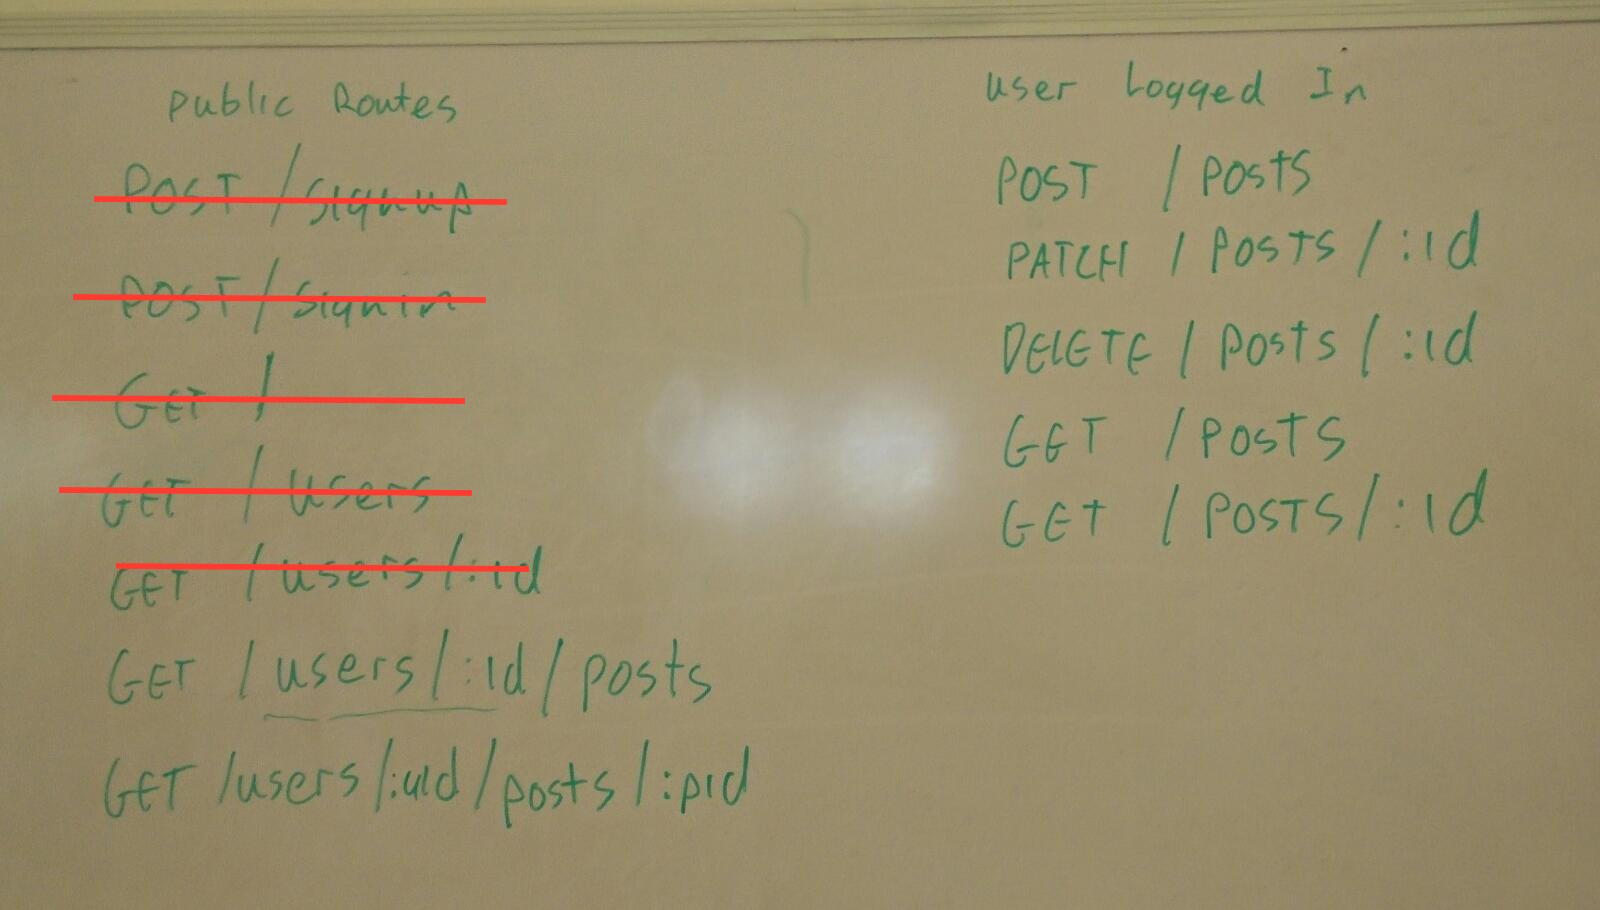
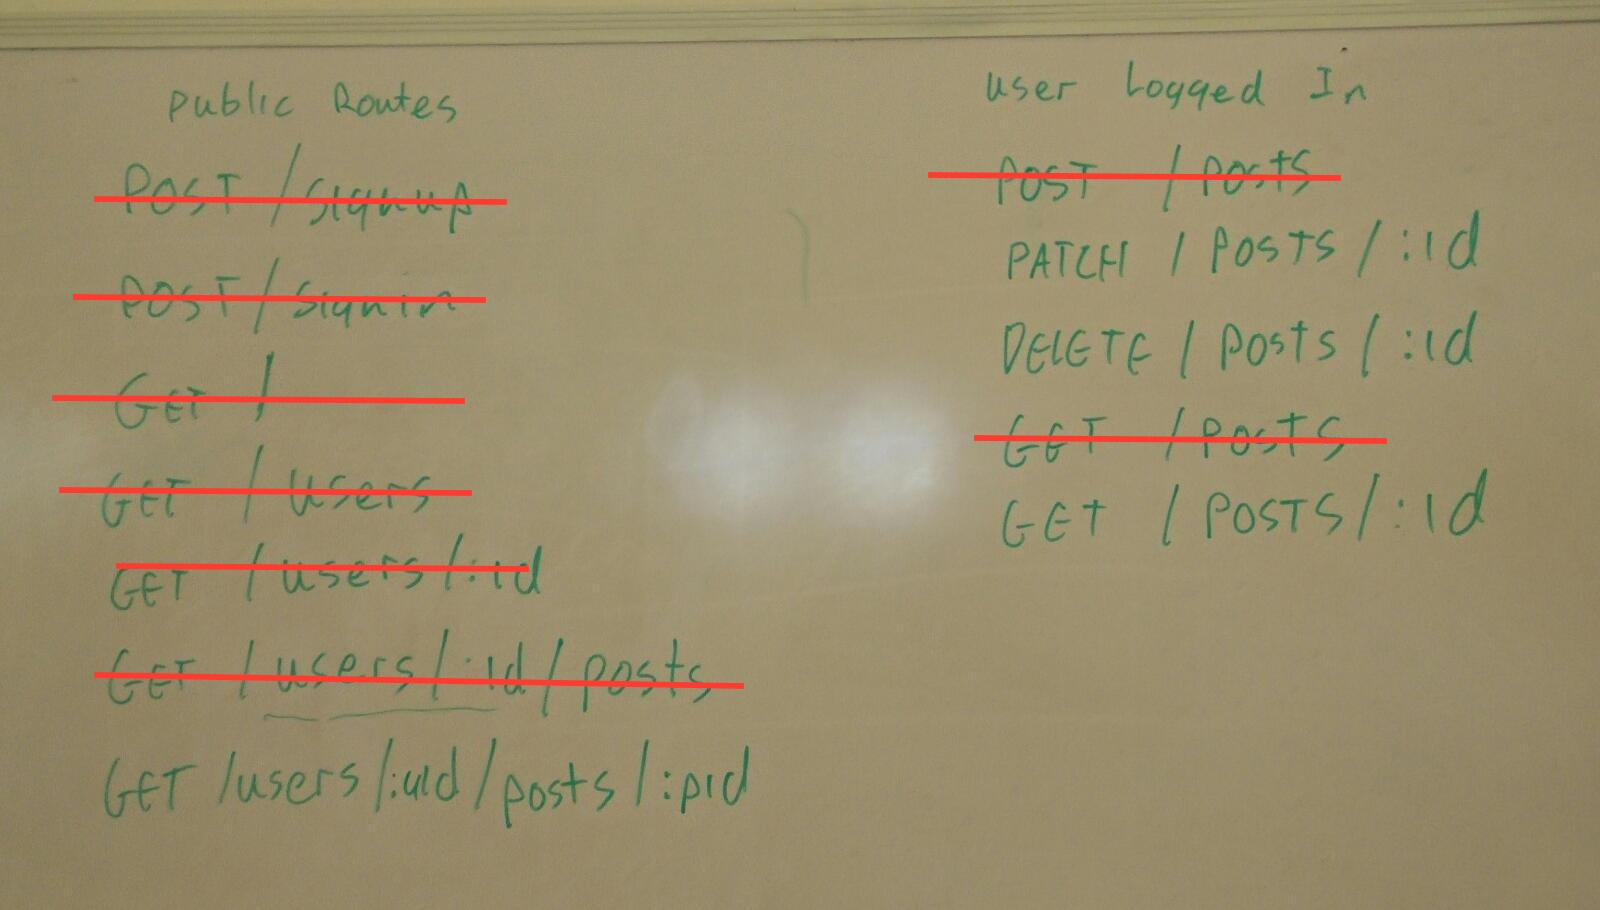
still cannot get users/id/posts/id

Changed region(s): [[0.0625, 0.7385, 0.4688, 0.7692], [0.5938, 0.4615, 0.875, 0.4923], [0.5625, 0.1846, 0.8438, 0.2154]]

diff --git a/app.js b/app.js
@@ -5,64 +5,52 @@ const User = require('./models/user')
 const Post = require('./models/post')
 const postController = require('./controllers/postController')
 const userController = require('./controllers/userController')
+const signInUpController = require('./controllers/signInUpController')
 
 const port = process.env.PORT || 3000
 const app = express()
 app.use(bodyParser.json())
 app.use(bodyParser.urlencoded({ extended: true }))
-
 app.use(function (req, res, next) {
   res.header('Access-Control-Allow-Origin', '*')
   res.header('Access-Control-Allow-Headers', 'Origin, X-Requested-With, Content-Type, Accept, User-Email, Auth-Token')
   next()
 })
-
 mongoose.connect('mongodb://default:defaultpassword@ds011963.mlab.com:11963/blog-app-david')
 
-app.post('/signup', (req, res) => {
-  const user = new User(req.body)
+// ROUTING END POINTS TO THE APPROPRIATE FUNCTIONS
+app.post('/signup', signInUpController.signUp)
+app.post('/signin', signInUpController.signIn)
 
-  user.save((err, user) => {
-    if (err) return res.status(401).json({error: '/signup error 1'})
-    res.status(200).json({message: 'welcome! ', user})
-  })
-})
+// GET ALL POSTS (these 2 end-points execute the same function)
+app.get('/', postController.getAllPosts)
+app.get('/posts', postController.getAllPosts)
 
-app.post('/signin', (req, res) => {
-  const userParams = req.body
+// GET ONE POST (by id)
+app.get('/posts/:id', postController.getPostById)
 
-  User.findOne({email: userParams.email}, (err, user) => {
-    if (err || !user) return res.status(401).json({error: '/signin error 1'})
-    user.authenticate(userParams.password, (err, isMatch) => {
-      if (err) return res.status(401).json({err: '/signin error 2'})
-      res.status(200).json({message: 'sign in success! welcome: ' + user.name})
-    })
-  })
-})
+// GET ALL USERS
+app.get('/users', userController.getAllUsers)
 
-app.route('/')
-  .get(postController.getAllPosts)
-
-app.route('/users')
-  .get(userController.getAllUsers)
-
+// GET A SPECIFIC USER (by id)
 app.get('/users/:id', userController.getOneUser)
+app.get('/users/:id/posts', postController.getAllPostsOfOneUser)
+app.get('/users/:id/posts/:id', postController.getOnePostOfOneUser)
 
-  .put(function(req, res) {
-    res.send('Update the book');
-  })
-  .delete(function(req, res) {
-    res.send('Delete the book');
-  })
+/* AFTER USER IS LOGGED IN  */
+// CREATE POST
+app.post('/posts', userController.userLoggedIn, postController.makeNewPost)
 
-app.post('/users/:id/post', userController.userLoggedIn, postController.makeNewPost)
+// GET ONE POST (by id)
+// app.get('/posts/:id', userController.userLoggedIn, postController.getOnePost)
 
-app.route('/users/:id/post/:id')
-  .put(function(req, res) {
-    res.send('Update the book');
+// EDIT AND DELETE POSTS
+app.route('/posts/:id')
+  .put(function (req, res) {
+    res.send('Update the book')
   })
-  .delete(function(req, res) {
-    res.send('Delete the book');
+  .delete(function (req, res) {
+    res.send('Delete the book')
   })
 
 app.listen(port, () => {

diff --git a/controllers/postController.js b/controllers/postController.js
@@ -1,22 +1,63 @@
 const Post = require('../models/post')
+const User = require('../models/user')
 
 function getAllPosts (req, res) {
-  Post.find({}, function (err, postsArray) {
-    if (err) return res.status(401).json({error: '/post getAllPosts error 1'})
+  let postsArray = []
+  User.find({}, function (err, usersArray) {
+    if (err) return res.status(401).json({error: '/get getAllPosts error 1'})
+    for (let i = 0; i < usersArray.length; i++) {
+      if (err) return res.status(401).json({error: '/get getAllPosts error 2'})
+      for (let j = 0; j < usersArray[i].posts.length; j++) {
+        postsArray.push(usersArray[i].posts[j])
+      }
+    }
     res.status(200).json(postsArray)
   })
 }
 
 function makeNewPost (req, res) {
+  const user = req.currentUser
   const post = new Post(req.body)
+  user.posts.push(post)
 
-  post.save((err, post) => {
+  user.save((err, post) => {
     if (err) return res.status(401).json({error: '/post makeNewPost error 1'})
-    res.status(200).json({message: 'post created! yay! '})
+    res.status(200).json({message: 'post created! yay! ', post})
+  })
+}
+
+function getAllPostsOfOneUser (req, res) {
+  User.findById({_id: req.params.id}, function (err, user) {
+    if (err) return res.status(401).json({error: '/get getAllPostsOfOneUser error 1'})
+    res.status(200).json(user.posts)
+  })
+}
+
+function getOnePostOfOneUser (req, res) {
+  // var userId = req.params.id
+  var postId = req.params.id
+  console.log(req)
+  Post.findById({_id: postId}, function (err, post) {
+    if (err) console.log({message: 'no users found'})
+    res.send(post)
+  })
+}
+
+// needs to be fixed. can't access posts which are nested inside uesrs
+function getPostById (req, res) {
+  // getAllPosts(req, res)
+  User.find({}).populate('posts').exec(function (err, users) {
+    // Post.findById({_id: req.params.id}, function (err, post) {
+    //   console.log(post)
+    res.status(200).json(users)
+  // })
   })
 }
 
 module.exports = {
   getAllPosts: getAllPosts,
-  makeNewPost: makeNewPost
+  makeNewPost: makeNewPost,
+  getPostById: getPostById,
+  getAllPostsOfOneUser: getAllPostsOfOneUser,
+  getOnePostOfOneUser: getOnePostOfOneUser
 }

diff --git a/controllers/signInUpController.js b/controllers/signInUpController.js
@@ -1,0 +1,27 @@
+const User = require('../models/user')
+
+function signUp(req, res) {
+  const user = new User(req.body)
+
+  user.save((err, user) => {
+    if (err) return res.status(401).json({error: '/signup error 1'})
+    res.status(200).json({message: 'welcome! ', user})
+  })
+}
+
+function signIn (req, res) {
+  const userParams = req.body
+
+  User.findOne({email: userParams.email}, (err, user) => {
+    if (err || !user) return res.status(401).json({error: '/signin error 1'})
+    user.authenticate(userParams.password, (err, isMatch) => {
+      if (err) return res.status(401).json({err: '/signin error 2'})
+      res.status(200).json({message: 'sign in success! welcome: ' + user.name})
+    })
+  })
+}
+
+module.exports = {
+  signUp: signUp,
+  signIn: signIn
+}

diff --git a/models/post.js b/models/post.js
@@ -3,8 +3,7 @@ const User = require('./user')
 
 const PostSchema = new mongoose.Schema({
   title: String,
-  body: String,
-  author: [User]
+  body: String
 })
 
 const Post = mongoose.model('Post', PostSchema)
